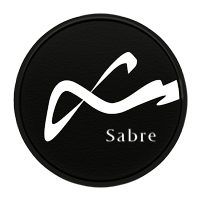
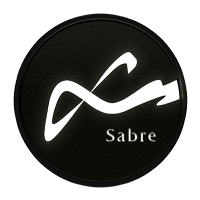
Cover looks good

diff --git a/AC Cover/Views/AC_CoverEmblemView.m b/AC Cover/Views/AC_CoverEmblemView.m
@@ -19,7 +19,7 @@ static const CGPoint _INNER_SHADOW_INIT_OFFSET = { 0, 3 };
 static const CGPoint _INNER_SHADOW_OFFSET_MIN = { -2, -5 };
 static const CGPoint _INNER_SHADOW_OFFSET_MAX = { +2, 1};
 
-static const CGFloat _MAX_SHADOW_SIZE = 75;
+static const CGFloat _OUTER_SHADOW_SIZE = 90;
 
 /////////////////////////////////////////////////////////////////////////
 #pragma mark -
@@ -55,51 +55,59 @@ static const CGFloat _MAX_SHADOW_SIZE = 75;
     // 0. View bounds
     UIImage *emblem = [UIImage imageNamed:@"emblem-masked"];
     NSParameterAssert(emblem);
-    CGSize frameSize = CGSizeMake(emblem.size.width,
-                                  emblem.size.height);
+    
+    CGSize frameSize = CGSizeMake(emblem.size.width + 2 * _OUTER_SHADOW_SIZE,
+                                  emblem.size.height + 2 * _OUTER_SHADOW_SIZE);
     CGRect f = {0, 0, frameSize};
     self.frame = f;
     self.backgroundColor = [UIColor clearColor];
     
+    // Prep the layer to the correct size and center
+    CALayer *(^layerWithImage)(CGSize size, UIImage *contents) = ^CALayer *(CGSize size, UIImage *contents) {
+        CALayer *l = [CALayer layer];
+        l.frame = CGRectMake(0, 0, size.width, size.height);
+        l.contentsScale = self.layer.contentsScale;
+        l.anchorPoint = CGPointMake(0.5, 0.5);
+        l.position = CGPointMake(frameSize.width/2, frameSize.height/2);
+        l.contents = (__bridge id)contents.CGImage;
+        return l;
+    };
     
     // 1. Emblem/mask
-    CALayer *emblemLayer = [CALayer layer];
-    emblemLayer.frame = self.frame;
-    emblemLayer.contents = (__bridge id)(emblem.CGImage);
+    CALayer *emblemLayer = layerWithImage(emblem.size, emblem);
     [self.layer addSublayer:emblemLayer];
     
     
     // 2. Inner shadow image
-    _innerShadowLayer = [CALayer layer];
-    _innerShadowLayer.contentsScale = self.layer.contentsScale;
-    // disable layer actions
+    _innerShadowLayer = layerWithImage(emblem.size, [UIImage imageNamed:@"emblem-inner-shadow"]);
+    // disable layer animation actions
     NSDictionary *newActions = @{@"position": [NSNull null]};
     _innerShadowLayer.actions = newActions;
+    _innerShadowLayer.position = CGPointMake(_innerShadowLayer.position.x + _INNER_SHADOW_INIT_OFFSET.x,
+                                             _innerShadowLayer.position.y + _INNER_SHADOW_INIT_OFFSET.y);
     
-    _innerShadowLayer.contents = (__bridge id)[UIImage imageNamed:@"emblem-inner-shadow"].CGImage;
     [self.layer insertSublayer:_innerShadowLayer below:emblemLayer];
-    _innerShadowLayer.frame = CGRectMake(_INNER_SHADOW_INIT_OFFSET.x,
-                                         _INNER_SHADOW_INIT_OFFSET.y,
-                                         self.frame.size.width,
-                                         self.frame.size.height);
     _initShadowPos = _innerShadowLayer.position;
     
     
     // 3. Background circle
     CGFloat inset = 39;
-    CGRect circBounds = {0, 0, self.frame.size.width-inset, self.frame.size.height-inset};
-    CALayer *colorLayer = [CALayer layer];
-    colorLayer.contentsScale = self.layer.contentsScale;
-    colorLayer.bounds = circBounds;
-    colorLayer.position = CGPointMake(self.frame.size.width/2, self.frame.size.height/2);
-    colorLayer.anchorPoint = CGPointMake(0.5, 0.5);
+    CGSize circSize = {emblem.size.width-inset, emblem.size.height-inset};
     
-    UIBezierPath *circle = [UIBezierPath bezierPathWithOvalInRect:circBounds];
-    UIGraphicsBeginImageContext(circBounds.size);
+    UIBezierPath *circle = [UIBezierPath bezierPathWithOvalInRect:CGRectMake((frameSize.width-circSize.width)/2, (frameSize.height-circSize.height)/2, circSize.width, circSize.height)];
+    CALayer *colorLayer;
+    
+    UIGraphicsBeginImageContextWithOptions(frameSize, NO, 0.0);
     {
+        CGContextRef ctx = UIGraphicsGetCurrentContext();
+        
+        [[UIColor blackColor] setFill];
+        
         [[UIColor ac_yellowColor] setFill];
-        [circle fill];
-        colorLayer.contents = (__bridge id)UIGraphicsGetImageFromCurrentImageContext().CGImage;
+        CGContextAddPath(ctx, circle.CGPath);
+        CGContextSetShadowWithColor(ctx, CGSizeZero, _OUTER_SHADOW_SIZE, [[UIColor blackColor] colorWithAlphaComponent:1.0].CGColor);
+        CGContextFillPath(ctx);
+        colorLayer = layerWithImage(frameSize, UIGraphicsGetImageFromCurrentImageContext());
     }
     UIGraphicsEndImageContext();
     [self.layer insertSublayer:colorLayer below:_innerShadowLayer];

diff --git a/AC Cover/Views/AC_CoverView.m b/AC Cover/Views/AC_CoverView.m
@@ -207,7 +207,8 @@ GLfloat _glCubeVertexData[48] =
                       textureWithContentsOfFile:f
                       options:@{
                                 GLKTextureLoaderOriginBottomLeft: @YES,
-                                GLKTextureLoaderApplyPremultiplication: @NO
+                                GLKTextureLoaderApplyPremultiplication: @NO,
+                                GLKTextureLoaderSRGB: @NO
                                 }
                       error:&err];
 
@@ -221,7 +222,8 @@ GLfloat _glCubeVertexData[48] =
                        textureWithContentsOfFile:f
                        options:@{
                                  GLKTextureLoaderOriginBottomLeft: @YES,
-                                 GLKTextureLoaderApplyPremultiplication: @YES
+                                 GLKTextureLoaderApplyPremultiplication: @YES,
+                                 GLKTextureLoaderSRGB: @NO
                                  }
                        error:&err];
     
@@ -235,7 +237,8 @@ GLfloat _glCubeVertexData[48] =
                          textureWithContentsOfFile:f
                          options:@{
                                    GLKTextureLoaderOriginBottomLeft: @YES,
-                                   GLKTextureLoaderApplyPremultiplication: @NO
+                                   GLKTextureLoaderApplyPremultiplication: @NO,
+                                   GLKTextureLoaderSRGB: @YES
                                    }
                          error:&err];
     

diff --git a/AC Cover/AC_CoverVC.m b/AC Cover/AC_CoverVC.m
@@ -32,10 +32,10 @@ typedef struct {
 
 
 
-static float attnConst=0.0, attnLin=3.97, attnQuad=3.49;
-static float light0X=0.36,/*2.72,*/ light0Y=0.89,/*3.98,*/ light0Z=-1.20/*-0.30*/;
-static float diffInts=0.44, specInts=3.96, edgeFaceSplit=6.5;
-static float shine=4.10;
+static float attnConst=0.0, attnLin=15.97, attnQuad=9.81;
+static float light0X=0.19,/*2.72,*/ light0Y=0.45,/*3.98,*/ light0Z=-1.20/*-0.30*/;
+static float diffInts=2.78, specInts=13.05, edgeFaceSplit=6.5;
+static float shine=20.00;
 
 
 /////////////////////////////////////////////////////////////////////////
@@ -230,7 +230,7 @@ static float shine=4.10;
         case 3: // INTENSITIES & SPLIT FACTOR
             
             if (touchIdx == 0) {
-                diffInts = nX * 20;
+                diffInts = nX * 10;
                 specInts = nY * 20;
                 [coverView setUniform:@"u_diffuseIntensity" withFloat:diffInts];
                 [coverView setUniform:@"u_specularIntensity" withFloat:specInts];
@@ -247,7 +247,7 @@ static float shine=4.10;
         case 4: // SPECULAR SHININESS
             
             if (touchIdx == 0) {
-                shine = nY * 10;
+                shine = nY * 30;
                 [coverView setUniform:@"u_shininess" withFloat:shine];
             }
             else if (touchIdx == 1) {
